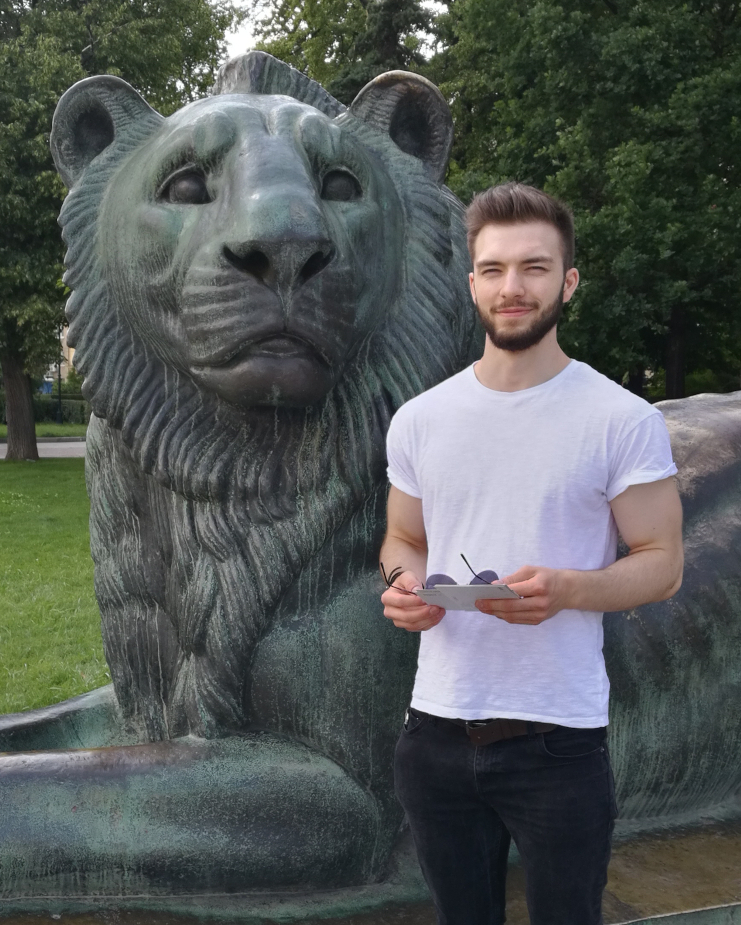
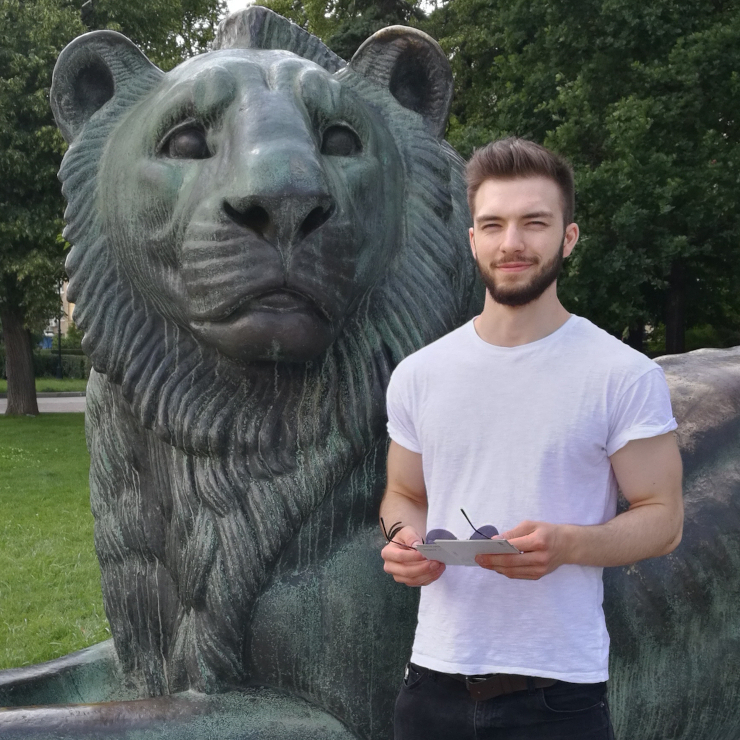
updated home page

diff --git a/index.html b/index.html
@@ -8,41 +8,105 @@
     <script src="js/uikit.min.js"></script>
     <script src="js/uikit-icons.min.js"></script>
     <script type="text/javascript" src="js/jquery-3.3.1.js"></script>
-    <script type="text/javascript" src="https://platform.linkedin.com/badges/js/profile.js" async defer></script>
-    <script>
-        $(function(){
-            $("#header").load("header.html");
-        });
-    </script>
     <title>Matthias Wright</title>
 </head>
     <body>
         <div class="wrapper">
-            <div id="header"></div>
+            <div id="header">
+                <nav class="navbar navbar-expand-lg navbar-light bg-light">
+                    <div class="nav-items">
+                        <button class="navbar-toggler" type="button" data-toggle="collapse" data-target="#navbarSupportedContent" aria-controls="navbarSupportedContent" aria-expanded="false" aria-label="Toggle navigation">
+                            <span class="navbar-toggler-icon"></span>
+                        </button>
+                        <div class="collapse navbar-collapse font2" id="navbarSupportedContent">
+                            <ul class="navbar-nav">
+                                <li class="nav-item active">
+                                    <a class="nav-link" href="index.html">About Me</a>
+                                </li>
+                                <li class="nav-item">
+                                    <a class="nav-link" href="education.html">Education</a>
+                                </li>
+                                <li class="nav-item">
+                                    <a class="nav-link" href="experience.html">Experience</a>
+                                </li>
+                                <li class="nav-item">
+                                    <a class="nav-link" href="projects.html">Thesis Projects</a>
+                                </li>
+                                <li class="nav-item">
+                                    <a class="nav-link" target="_blank" href="files/cv.pdf">CV</a>
+                                </li>
+                            </ul>
+                        </div>
+                    </div>
+                </nav>
+            </div>
             <div class="content">
-                <span class="heading1">About Me</span>
-                <hr>
                 <div class="row">
+                    <div class="col-sm-3">
+                        <img src="img/portrait.jpg" width="250px" alt="Me"><br/>
+                        <div class="name">
+                            <span class="heading1">Matthias Wright</span></br>
+                        </div>
+                        <div class="links">
+                            <div class="button"><a href="mailto:matthias.wright@yahoo.de" target="_blank"><span class="uk-icon uk-hover link-text" uk-icon="icon: mail; ratio: 2"></span><span class="link-text"></span></a></div>
+                            <div class="button"><a href="https://github.com/matthias-wright" target="_blank"><span class="uk-icon uk-hover link-text" uk-icon="icon: github; ratio: 2"></span><span class="link-text"></span></a></div>
+                            <div class="button"><a href="https://www.linkedin.com/in/matthias-wright/" target="_blank"><span class="uk-icon uk-hover link-text" uk-icon="icon: linkedin; ratio: 2"></span><span class="link-text"></span></a></div>
+                            <div class="button"><a href="https://twitter.com/MatthiasSWright" target="_blank"><span class="uk-icon uk-hover link-text" uk-icon="icon: twitter; ratio: 2"></span><span class="link-text"></span></a></div>
+                        </div>
+                    </div>
                     <div class="col-sm-8">
-                        <span class="font1">
+                        <span class="heading4">About Me</span></br></br>
+                        <span class="font2">
                             I have just finished my MSc in Machine Learning and Autonomous Systems at the University of Bath and am currently awaiting the final results. <br/>
                             Prior to my studies at Bath, I completed a degree apprenticeship program called MATSE offered jointly by RWTH Aachen University,
                             Aachen University of Applied Sciences, and the Chamber of Commerce and Industry, Aachen.
                             As part of this program, I completed a bachelor's degree program in Applied Mathematics and Computer Science
                             at Aachen University of Applied Sciences and a CCI-certified vocational training program in Software Development at RWTH Aachen University while working
                             as a junior software developer at the Department of Medical Informatics at RWTH Aachen University (<a href="http://www.rwth-aachen.de/cms/root/Die-RWTH/Arbeiten-an-der-RWTH/Berufsausbildung/Ausbildungsberufe/~vsa/Math-techn-Softwareentwickler/?lidx=1" target="_blank">more information</a>).<br/>
-                            If you have any questions, feel free to contact me.
-                        </span>
-                        <div class="links">
-                            <div class="button"><a href="mailto:matthias.wright@yahoo.de" target="_blank"><span class="uk-icon link-text" uk-icon="icon: mail"></span><span class="link-text"> Mail</span></a></div>
-                            <div class="button"><a href="https://github.com/matthias-wright" target="_blank"><span class="uk-icon link-text" uk-icon="icon: github"></span><span class="link-text"> GitHub</span></a></div>
-                            <div class="button"><a href="https://www.linkedin.com/in/matthias-wright/" target="_blank"><span class="uk-icon link-text" uk-icon="icon: linkedin"></span><span class="link-text"> LinkedIn</span></a></div>
-                            <div class="button"><a href="https://twitter.com/MatthiasSWright" target="_blank"><span class="uk-icon link-text" uk-icon="icon: twitter"></span><span class="link-text"> Twitter</span></a></div>
+                            If you have any questions, feel free to contact me. </br>
+                        </span></br>
+                        <div class="button"><a href="https://matthias-wright.github.io/files/cv.pdf" target="_blank"><span class="uk-icon link-text" uk-icon="icon: file-pdf; ratio: 1"></span><span class="link-text">Curriculum Vitae [PDF]</span></a></div>
+                        <div class="buffer-top-1"><span class="heading4">Education</span></div>
+                        <div class="row font1">
+                            <div class="col-sm-4">
+                                Oct 2018 - Sep 2019
+                            </div>
+                            <div class="col-sm-8">
+                                <span class="bold">University of Bath, United Kingdom</span><br/>
+                                M.Sc. in Machine Learning and Autonomous Systems <br/>
+                                Department of Computer Science <br/>
+                                Thesis: A Siamese Architecture for Neural Style Transfer
+                            </div>
                         </div>
-
-                    </div>
-                    <div class="col-sm-3">
-                        <img src="img/portrait.jpg" width="200px" alt="Me"><br/>
+                        <div class="row buffer-top-0 font1">
+                            <div class="col-sm-4">
+                                Sep 2015 - Aug 2018
+                            </div>
+                            <div class="col-sm-8">
+                                <span class="bold">Aachen University of Applied Sciences, Germany</span><br/>
+                                B.Sc. in Applied Mathematics and Computer Science <br/>
+                                Thesis: Detecting Abnormalities in Clinical Data with GANs
+                            </div>
+                        </div>
+                        <div class="row buffer-top-0 font1">
+                            <div class="col-sm-4">
+                                Sep 2015 - Aug 2018
+                            </div>
+                            <div class="col-sm-8">
+                                <span class="bold">Aachen Chamber of Industry and Commerce, Germany</span><br/>
+                                Apprenticeship as a Mathematical-Technical Software Developer<br/>
+                            </div>
+                        </div>
+                        <div class="buffer-top-1"><span class="heading4">Experience</span></div>
+                        <div class="row font1">
+                            <div class="col-sm-4">
+                                Sep 2015 - Aug 2018
+                            </div>
+                            <div class="col-sm-8">
+                                <span class="bold">RWTH Aachen University, Germany</span><br/>
+                                Software Developer <br/>
+                            </div>
+                        </div>
                     </div>
                 </div>
             </div>

diff --git a/education.html b/education.html
@@ -6,16 +6,38 @@
     <link rel="stylesheet" type="text/css" href="css/main.css">
     <script type="text/javascript" src="js/jquery-3.3.1.js"></script>
     <script type="text/javascript" src="js/education.js"></script>
-    <script>
-        $(function(){
-            $("#header").load("header.html");
-        });
-    </script>
     <title>Education</title>
 </head>
     <body>
         <div class="wrappper">
-            <div id="header"></div>
+            <div id="header">
+                <nav class="navbar navbar-expand-lg navbar-light bg-light">
+                    <div class="nav-items">
+                        <button class="navbar-toggler" type="button" data-toggle="collapse" data-target="#navbarSupportedContent" aria-controls="navbarSupportedContent" aria-expanded="false" aria-label="Toggle navigation">
+                            <span class="navbar-toggler-icon"></span>
+                        </button>
+                        <div class="collapse navbar-collapse font2" id="navbarSupportedContent">
+                            <ul class="navbar-nav">
+                                <li class="nav-item">
+                                    <a class="nav-link" href="index.html">About Me</a>
+                                </li>
+                                <li class="nav-item active">
+                                    <a class="nav-link" href="education.html">Education</a>
+                                </li>
+                                <li class="nav-item">
+                                    <a class="nav-link" href="experience.html">Experience</a>
+                                </li>
+                                <li class="nav-item">
+                                    <a class="nav-link" href="projects.html">Thesis Projects</a>
+                                </li>
+                                <li class="nav-item">
+                                    <a class="nav-link" target="_blank" href="files/cv.pdf">CV</a>
+                                </li>
+                            </ul>
+                        </div>
+                    </div>
+                </nav>
+            </div>
             <div class="content">
                 <span class="heading1">Education</span>
                 <hr>

diff --git a/experience.html b/experience.html
@@ -5,16 +5,38 @@
     <link rel="stylesheet" type="text/css" href="css/bootstrap.css">
     <link rel="stylesheet" type="text/css" href="css/main.css">
     <script type="text/javascript" src="js/jquery-3.3.1.js"></script>
-    <script>
-        $(function(){
-            $("#header").load("header.html");
-        });
-    </script>
     <title>Experience</title>
 </head>
     <body>
     <div class="wrappper">
-        <div id="header"></div>
+        <div id="header">
+            <nav class="navbar navbar-expand-lg navbar-light bg-light">
+                <div class="nav-items">
+                    <button class="navbar-toggler" type="button" data-toggle="collapse" data-target="#navbarSupportedContent" aria-controls="navbarSupportedContent" aria-expanded="false" aria-label="Toggle navigation">
+                        <span class="navbar-toggler-icon"></span>
+                    </button>
+                    <div class="collapse navbar-collapse font2" id="navbarSupportedContent">
+                        <ul class="navbar-nav">
+                            <li class="nav-item">
+                                <a class="nav-link" href="index.html">About Me</a>
+                            </li>
+                            <li class="nav-item">
+                                <a class="nav-link" href="education.html">Education</a>
+                            </li>
+                            <li class="nav-item active">
+                                <a class="nav-link" href="experience.html">Experience</a>
+                            </li>
+                            <li class="nav-item">
+                                <a class="nav-link" href="projects.html">Thesis Projects</a>
+                            </li>
+                            <li class="nav-item">
+                                <a class="nav-link" target="_blank" href="files/cv.pdf">CV</a>
+                            </li>
+                        </ul>
+                    </div>
+                </div>
+            </nav>
+        </div>
         <div class="content">
             <span class="heading1">Experience</span>
             <hr>

diff --git a/projects.html b/projects.html
@@ -5,16 +5,38 @@
     <link rel="stylesheet" type="text/css" href="css/bootstrap.css">
     <link rel="stylesheet" type="text/css" href="css/main.css">
     <script type="text/javascript" src="js/jquery-3.3.1.js"></script>
-    <script>
-        $(function(){
-            $("#header").load("header.html");
-        });
-    </script>
     <title>Thesis Projects</title>
 </head>
 <body>
 <div class="wrappper">
-    <div id="header"></div>
+    <div id="header">
+        <nav class="navbar navbar-expand-lg navbar-light bg-light">
+            <div class="nav-items">
+                <button class="navbar-toggler" type="button" data-toggle="collapse" data-target="#navbarSupportedContent" aria-controls="navbarSupportedContent" aria-expanded="false" aria-label="Toggle navigation">
+                    <span class="navbar-toggler-icon"></span>
+                </button>
+                <div class="collapse navbar-collapse font2" id="navbarSupportedContent">
+                    <ul class="navbar-nav">
+                        <li class="nav-item">
+                            <a class="nav-link" href="index.html">About Me</a>
+                        </li>
+                        <li class="nav-item">
+                            <a class="nav-link" href="education.html">Education</a>
+                        </li>
+                        <li class="nav-item">
+                            <a class="nav-link" href="experience.html">Experience</a>
+                        </li>
+                        <li class="nav-item active">
+                            <a class="nav-link" href="projects.html">Thesis Projects</a>
+                        </li>
+                        <li class="nav-item">
+                            <a class="nav-link" target="_blank" href="files/cv.pdf">CV</a>
+                        </li>
+                    </ul>
+                </div>
+            </div>
+        </nav>
+    </div>
     <div class="content">
         <span class="heading1">Thesis Projects</span>
         <hr>

diff --git a/css/main.css b/css/main.css
@@ -1,8 +1,4 @@
-@font-face {
-    font-family: 'Lato';
-    src: url('https://fonts.googleapis.com/css?family=Lato');
-    font-size: 1em;
-}
+@import url(https://fonts.googleapis.com/css?family=Lato);
 
 html {
     position: relative;
@@ -10,6 +6,7 @@ html {
 }
 
 body {
+    font-family: 'Lato';
     margin-bottom: 50px;
 }
 
@@ -28,7 +25,6 @@ body {
 
 .heading1 {
     font-size: 30px;
-    font-weight: bold;
 }
 
 .heading2 {
@@ -40,28 +36,45 @@ body {
     font-size: 20px;
 }
 
+.heading4 {
+    font-size: 35px;
+}
+
 .font1 {
     font-size: 15px;
+}
+
+.font2 {
+    font-size: 16px;
 }
 
 .content {
     margin-left: 20%;
     margin-right: 20%;
     margin-top: 3%;
+    margin-bottom: 10%;
     padding-bottom: 50px;
 }
 
 .nav-items {
-    margin-left: 20%;
-    margin-right: 20%;
+    margin-left: 19%;
+    margin-right: 19%;
 }
 
 hr {
     left: 0%;
 }
 
-.row {
+.buffer-top-0 {
+    margin-top: 2%;
+}
+
+.buffer-top-1 {
     margin-top: 5%;
+}
+
+.buffer-top-2 {
+    margin-top: 10%;
 }
 
 .logo {
@@ -82,11 +95,29 @@ hr {
     color: #151515 !important;
 }
 
-.links {
+.name {
     margin-top: 20px;
+    margin-left: 7%;
+}
+
+.links {
+    margin-left: 7%;
+    margin-top: 25px;
 }
 
 .button {
     display: inline-block;
     margin-right: 15px;
+}
+
+img {
+    border-radius: 50%;
+}
+
+.uk-hover:hover {
+    transform: scale(1.3);
+}
+
+.bold {
+    font-weight: bold;
 }
